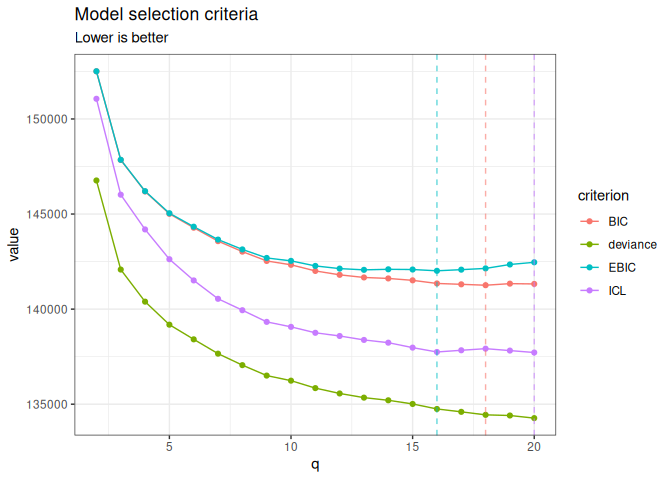
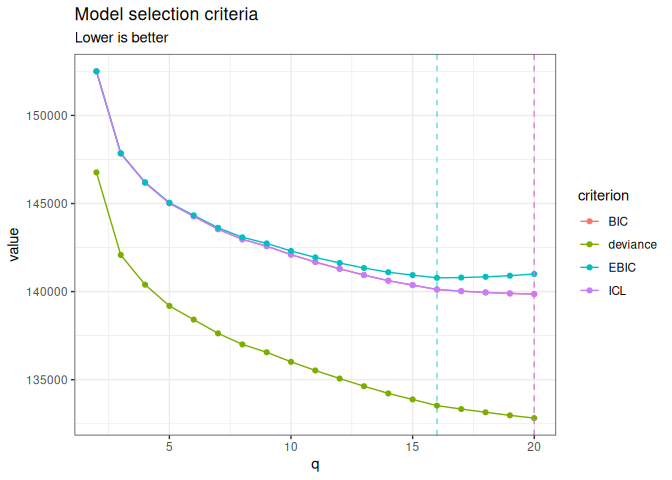
Use kmeans + refine() by default in both families
NB_control(refine = TRUE) is now the default: every collection over a
range of q, in both families, is polished by refine() after its
cold-started fit, with a one-line report of the models it improved.
Heuristic fits are never refined, and refine() on one says why it cannot
run (it used to fail inside split()).

The variance-block default clustering_init becomes "kmeans", as for the
mean-block family, in the model constructor, in the collection path
(clustering_path_for_family()) and first in best_of_inits()'s order. The
study of #64 found the heuristics equivalent on simulations; on real data
kmeans + refine() gives the best fits on brca_rppa and close to the best on
the university data, ward2 staying better on the zero-inflated onema, which
the ZI vignette now names explicitly. refine() removes the instability of a
cold-started kmeans collection (monotonicity violations, seed-dependent
ICL choice).

Vignettes turn refine() off where they show its effect; README regenerated.

diff --git a/README.md b/README.md
@@ -118,7 +118,7 @@ m_known
     A diagonal normal-block-var model with fixed blocks .
     ===========================================================================
      nb_param q n_edges sparsity    loglik deviance      BIC      ICL   EBIC niter
-          999 6      15        0 -70387.84 140775.7 146616.3 144073.3 146670    14
+          999 6      15        0 -70387.84 140775.7 146616.3 146616.3 146670    14
     ===========================================================================
     * Useful fields
         $model_par, $posterior_par / $var_par, $clustering 
@@ -129,7 +129,9 @@ m_known
 ### Unknown number of clusters
 
 Leave the clustering for the model to infer, over a range of candidate
-cluster counts explored as a collection, then select by ICL.
+cluster counts explored as a collection (each model initialized by
+`kmeans`, then the whole collection polished by `refine()`), then select
+by ICL.
 
 ``` r
 m_unknown <- normal_block(data, blocks = 2:20)
@@ -155,10 +157,11 @@ m_unknown <- normal_block(data, blocks = 2:20)
          number of blocks = 18           
          number of blocks = 19           
          number of blocks = 20           
+         refine(): improved 16 of 19 models
+
     DONE
 
 ``` r
-m_unknown$refine(verbose = FALSE)
 m_unknown$plot(c("deviance", "BIC", "ICL", "EBIC"))
 ```
 
@@ -170,10 +173,8 @@ m_unknown$get_best_model("EBIC")
 
     A diagonal normal-block-var model with 16 unknown blocks .
     ===========================================================================
-     nb_param  q n_edges sparsity    loglik deviance      BIC      ICL     EBIC
-         1129 16     120        0 -67374.79 134749.6 141350.2 137746.6 142015.6
-     niter
-        32
+     nb_param  q n_edges sparsity loglik deviance      BIC      ICL     EBIC niter
+         1129 16     120        0 -66764   133528 140117.3 140117.5 140782.8    18
     ===========================================================================
     * Useful fields
         $model_par, $posterior_par / $var_par, $clustering 
@@ -256,18 +257,18 @@ m_zi    <- normal_block(data_zi, blocks = 2:8, zero_inflation = TRUE)
          number of blocks = 6           
          number of blocks = 7           
          number of blocks = 8           
+         refine(): improved 6 of 7 models
+
     DONE
 
 ``` r
 m_zi$get_best_model("ICL")
 ```
 
-    A zero-inflated diagonal normal-block-var model with 6 unknown blocks .
+    A zero-inflated diagonal normal-block-var model with 4 unknown blocks .
     ===========================================================================
-     nb_param q n_edges sparsity    loglik deviance      BIC      ICL     EBIC
-          210 6      15        0 -13519.35 27038.71 28296.39 27090.47 28350.14
-     niter
-        20
+     nb_param q n_edges sparsity   loglik deviance      BIC      ICL     EBIC niter
+          197 4       6        0 -13523.7  27047.4 28220.75 28241.19 28237.38     8
     ===========================================================================
     * Useful fields
         $model_par, $posterior_par / $var_par, $clustering 

diff --git a/NEWS.md b/NEWS.md
@@ -1,5 +1,23 @@
 # normalblockr (development version)
 
+## One initialization for both families, and refine() by default
+
+Fits over a range of cluster counts change: they are refined, and the
+variance-block ones start from another heuristic.
+
+* `NB_control(refine = TRUE)` is now the default, for collections of both
+  families: every collection over a range of `q` is polished by `refine()`
+  after its cold-started fit (typically 3 to 6 times the cost). A one-line
+  report says how many models it improved. `refine = FALSE` restores the
+  previous behaviour; heuristic fits (`heuristic = TRUE`) are never refined,
+  and `refine()` called on one now says why it cannot run.
+* The default `clustering_init` of variance-block models is now `"kmeans"`,
+  as for mean-block ones. On simulated data the heuristics are equivalent;
+  on real data `kmeans` followed by `refine()` gives the best fits on
+  `brca_rppa` and close to the best on the university data, while `"ward2"`
+  remains better on zero-inflated abundances such as `onema` (see
+  `inst/clustering_initialization_benchmark/var_init_study.R`).
+
 ## Rescaling of Y now depends on the model family
 
 The fits of mean-block models on default data change.
